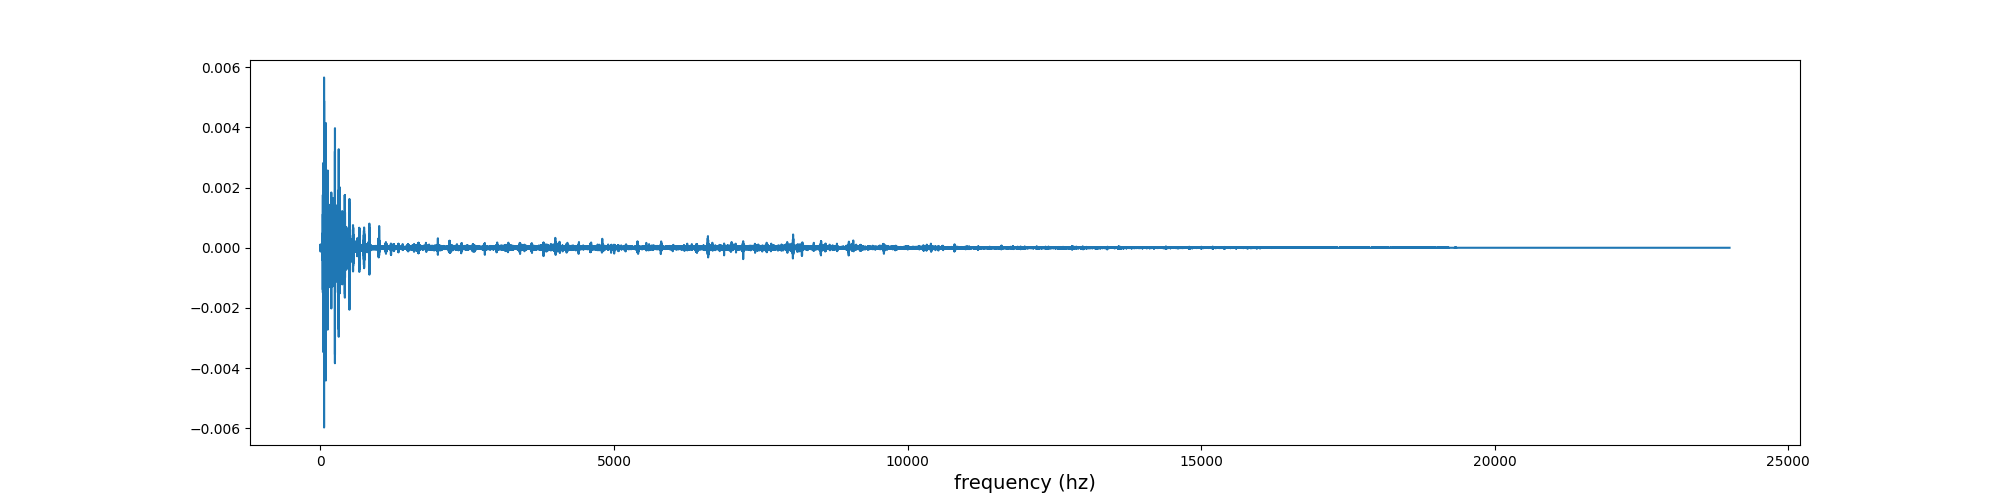
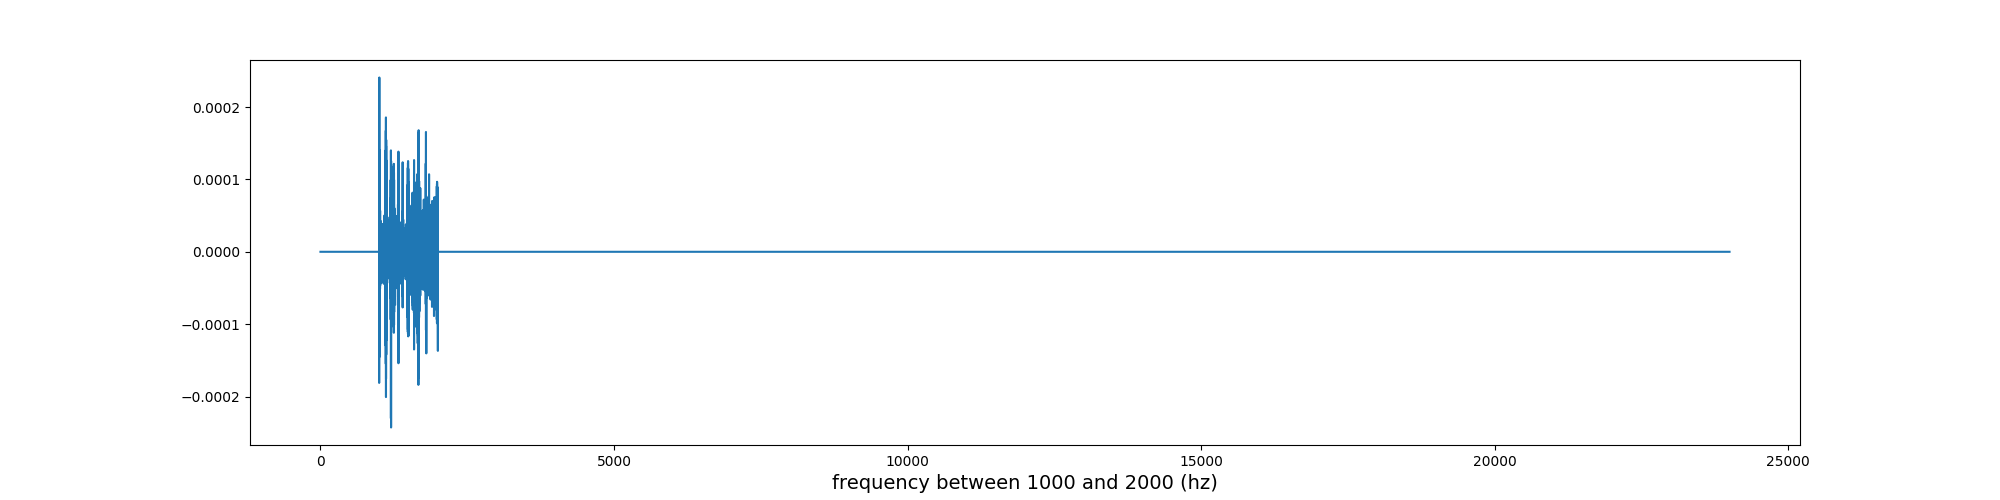
filter functions working, setting up keypress response

diff --git a/demo.py b/demo.py
@@ -4,6 +4,9 @@ import matplotlib.pyplot as plt
 
 from scipy.io import wavfile
 import sounddevice as sd
+from scipy.io.wavfile import write
+
+from pynput.keyboard import Listener
 
 '''
 amplitude -> volume of a sound, specifically the wave sample of that sound
@@ -12,32 +15,138 @@ frequency -> pitch of a sound, # of sound wave oscillations per second
 '''
 
 def play_audio(signal, sample_rate):
-    #takes floting point # and turns it back into audio waveform samples
+    #takes floating point # and turns it back into audio waveform samples
     signal_normalized = np.int16(signal * (32767 / np.max(np.abs(signal)))) 
     #plays that audio waveform sample at the given sample rate (frequency, hz) one at a time -> multiple samples strung together make the sound
     sd.play(signal_normalized, sample_rate) 
     # wait until playback finishes
     sd.wait()  
 
-# return (sample_rate and audio data)
-input_audio = wavfile.read("Tokyo Rain Serenade.wav")
-# how many samples per second
-sample_rate = input_audio[0] 
-print(sample_rate)
+def lowpass_filter(frequencies, spectrum, max_freq):
+    """A lowpass filter. 
+    
+    Filter out the parts of the spectrum above the specified frequency.
+    
+    Args:
+        frequencies (array[float]): The frequencies of the Fourier coefficients
+            (in Hz, obtained from np.fft.rfftfreqs).
+        spectrum (array[complex]): The Fourier coefficients obtained by applying
+            the FFT to an audio signal.
+        max_freq (float): The maximum frequency, in Hz, allowed by the lowpass filter.
+        
+    Returns:
+        array[complex]: A modified spectrum containing only the Fourier coefficients
+        up to the specified frequency.
+    """
+    spectrum2 = np.array(spectrum)
+    #going through each frequency of each fourier tranform coefficient and comparing to max frequency filter, if higher, setting the coefficient to 0 to modify the recorded occurence of a frequency 
+    for idx, val in np.ndenumerate(frequencies):
+        if val >= max_freq:
+            spectrum2[idx] = 0
+    return spectrum2
 
-channel_0 = input_audio[1][:, 0]
-# converts audio data (repped by long range of #) into managable floating point # between the smallest and largest data # (e.x. if 0.9m is the highest amplitude sample, that becomes 1)
-# specifically extracts only the left channel (appplicable to stereo or headphones for example) -> explains why when playing the sound it no longer has that dimension?
-audio = np.array(channel_0, dtype=np.float64) / np.max(channel_0)
+def highpass_filter(frequencies, spectrum, min_freq):
+    """A highpass filter. 
+    
+    Filter out the parts of the spectrum below the specified frequency.
+    
+    Args:
+        frequencies (array[float]): The frequencies of the Fourier coefficients
+            (in Hz, obtained from np.fft.rfftfreqs).
+        spectrum (array[complex]): The Fourier coefficients obtained by applying
+            the FFT to an audio signal.
+        min_freq (float): The minimum frequency, in Hz, allowed by the highpass filter.
+        
+    Returns:
+        array[complex]: A modified spectrum containing only the Fourier coefficients
+        above the specified frequency. 
+    """
+    spectrum3 = np.array(spectrum)
+    #going through each frequency of each fourier tranform coefficient and comparing to max frequency filter, if higher, setting the coefficient to 0 to modify the recorded occurence of a frequency 
+    for idx, val in np.ndenumerate(frequencies):
+        if val <= min_freq:
+            spectrum3[idx] = 0
+    return spectrum3
 
-#play_audio(audio, sample_rate)
-#computes floting point # representation of sample into complex coeffcients (coefficienct represents how loud a specific frequency is -> amplitude, when frequency starts in the sequence of samples)
-fourier_coefficients = np.fft.rfft(audio, norm="forward")
-frequency_spectrum =  np.fft.rfftfreq(len(audio), 1 / sample_rate)
+def bandpass_filter(frequencies, spectrum, min_freq, max_freq):
+    """A bandpass filter. 
+    
+    Keep only the parts of the frequency spectrum in a given range.
+    
+    Args:
+        frequencies (array[float]): The frequencies of the Fourier coefficients
+            (in Hz, obtained from np.fft.rfftfreqs).
+        spectrum (array[complex]): The Fourier coefficients obtained by applying
+            the FFT to an audio signal.
+        min_freq (float): The minimum frequency, in Hz, allowed by the bandpass filter.
+        max_freq (float): The maximum frequency, in Hz, allowed by the bandpass filter.
+        
+    Returns:
+        array[complex]: A modified spectrum containing only the Fourier coefficients
+        within the given frequency band. 
+    """
+    spectrum4 = highpass_filter(frequencies, spectrum, min_freq)
+    spectrum5 = lowpass_filter(frequencies, spectrum4, max_freq)
 
-plt.figure(figsize=(20, 5))
-plt.plot(frequency_spectrum, fourier_coefficients.real)
-plt.xlabel("frequency (hz)", fontsize=14)
+       
+    return spectrum5
 
-plt.savefig('fft_plot.png')
-print("Plot saved as 'fft_plot.png'")
+
+def bandstop_filter(frequencies, spectrum, min_freq, max_freq):
+    """A bandstop filter. 
+    
+    Remove parts of the frequency spectrum in a given range.
+    
+    Args:
+        frequencies (array[float]): The frequencies of the Fourier coefficients
+            (in Hz, obtained from np.fft.rfftfreqs).
+        spectrum (array[complex]): The Fourier coefficients obtained by applying
+            the FFT to an audio signal.
+        min_freq (float): The lowest frequency, in Hz, stopped by the filter.
+        max_freq (float): The highest frequency, in Hz, stopped by the filter.
+        
+    Returns:
+        array[complex]: A modified spectrum containing only the Fourier coefficients
+        outside the given frequency band. 
+    """
+    
+    spectrum7 = highpass_filter(frequencies, spectrum, max_freq)
+    spectrum6 = lowpass_filter(frequencies, spectrum, min_freq)
+    
+    return spectrum6+spectrum7
+
+def on_press(key):
+    if key == 'r':
+        print("recording starting")
+        fs = 44100
+        seconds = 5
+        recorded = sd.rec(int(seconds*fs), samplerate=fs, channels=2)
+        sd.wait()
+        write('recording.wav', fs, recorded)
+        print("recording done")
+
+        # return (sample_rate and audio data)
+        input_audio = wavfile.read("Tokyo Rain Serenade.wav")
+        # how many samples per second
+        sample_rate = input_audio[0] 
+
+        channel_0 = input_audio[1][:, 0]
+        # converts audio data (repped by long range of #) into managable floating point # between the smallest and largest data # (e.x. if 0.9m is the highest amplitude sample, that becomes 1)
+        # specifically extracts only the left channel (appplicable to stereo or headphones for example) -> explains why when playing the sound it no longer has that dimension?
+        audio = np.array(channel_0, dtype=np.float64) / np.max(channel_0)
+
+        #play_audio(audio, sample_rate)
+        #computes floating point # representation of sample into complex coeffcients (coefficienct represents how loud a specific frequency is -> amplitude, when frequency starts in the sequence of samples)
+        fourier_coefficients = np.fft.rfft(audio, norm="forward")
+        frequency_spectrum =  np.fft.rfftfreq(len(audio), 1 / sample_rate)
+
+        plt.figure(figsize=(20, 5))
+        plt.plot(frequency_spectrum, bandpass_filter(frequency_spectrum, fourier_coefficients.real, 1000, 2000),)
+        plt.xlabel("frequency between 1000 and 2000 (hz)", fontsize=14)
+
+        plt.savefig('fft_plot.png')
+        print("Plot saved as 'fft_plot.png'")
+
+while True:
+    key = input("type a button: ")
+    on_press(key)
